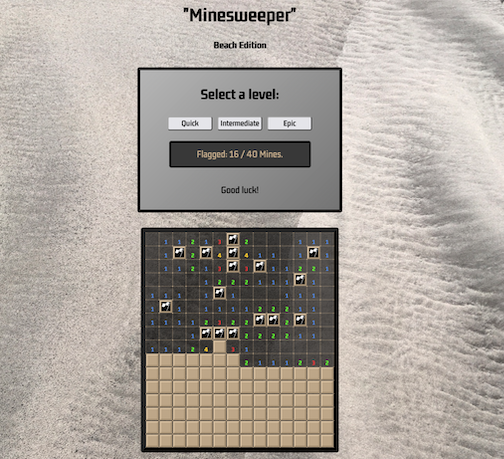
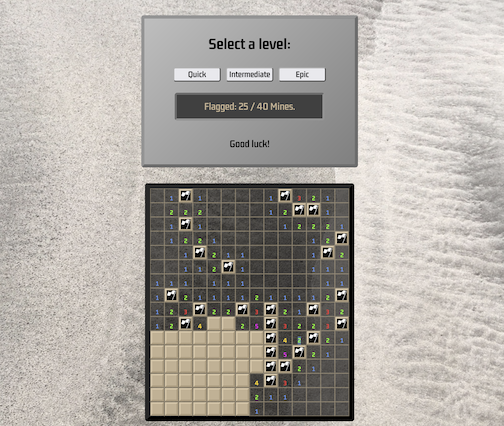
style changes, readme update. Very close to, if not the last commit

diff --git a/style.css b/style.css
@@ -18,8 +18,6 @@ body, main {
   flex-direction: column;
   align-items: center;
   /* General attributes */
-  /* font-family: 'Kdam Thmor Pro', sans-serif;
-  text-align: center; */
 }
 
 #interface {
@@ -28,10 +26,10 @@ body, main {
   flex-direction: column;
   align-items: center;
   /* General attributes */
-  border-top: solid 6px rgba(40, 40, 40, 1);
-  border-left: solid 6px rgba(40, 40, 40, 1);
-  border-right: solid 6px rgba(0, 0, 0, 1);
-  border-bottom: solid 6px rgba(0, 0, 0, 1);
+  border-top: solid 6px rgba(148, 148, 148, 1);
+  border-left: solid 6px rgba(148, 148, 148, 1);
+  border-right: solid 6px rgba(108, 108, 108, 1);
+  border-bottom: solid 6px rgba(108, 108, 108, 1);
   border-radius: 5px;
   width: 380px;
   max-width: 450px;
@@ -51,7 +49,6 @@ body, main {
 }
 
 .startBtn {
-  /* Placement attributes */
   width: 90px;
   margin: 5px;
   border-color: black;
@@ -61,10 +58,10 @@ body, main {
 
 #flagStatement {
   background-color: rgba(64, 64, 64, 1);
-  border-top: solid 4px rgba(0, 0, 0, 1);
-  border-left: solid 4px rgba(0, 0, 0, 1);
-  border-right: solid 4px rgba(40, 40, 40, 1);
-  border-bottom: solid 4px rgba(40, 40, 40, 1);
+  border-top: solid 4px rgba(108, 108, 108, 1);
+  border-left: solid 4px rgba(108, 108, 108, 1);
+  border-right: solid 4px rgba(148, 148, 148, 1);
+  border-bottom: solid 4px rgba(148, 148, 148, 1);
   border-radius: 5px;
   padding: 10px;
   color: rgba(195, 176, 145, 1);
@@ -78,8 +75,8 @@ body, main {
   /* Placement attributes */
   display: flex;
   flex-direction: column;
-  /* will need to change the template dynamically, with js? */
-  /* Can also do flex of flex (div rows hold array of spans. */
+  /* would like to eventually change the template dynamically...do we need js? */
+  /* General attributes */
   border-top: solid 10px rgba(40, 40, 40, 1);
   border-left: solid 10px rgba(40, 40, 40, 1);
   border-right: solid 10px rgba(0, 0, 0, 1);
@@ -91,7 +88,6 @@ body, main {
 
 #spaceHolder {
   width: 150px;
-  /* height: 40px; */
 }
 
 .gameRows {
@@ -100,12 +96,9 @@ body, main {
   flex-direction: row;
   justify-content: space-evenly;
   align-items: center;
-  /*For testing*/
-  color: go
 }
 
 .gameCell {
-  /* background-color: rgba(152, 168, 184, 1); */
   margin: 0px;
   width: 25px;
   height: 25px;
@@ -115,7 +108,6 @@ body, main {
 }
 
 .gameBtn {
-  /* display: contents; */
   width: 25px;
   height: 25px;
   background-color: rgba(195, 176, 145, 1);
@@ -134,8 +126,8 @@ body, main {
 }
 
 .cellValue {
-  /* Placement attributes */
   display: none;
+  /* Will be flipped between none/block in js.*/
 }
 
 .bomb {
@@ -157,15 +149,6 @@ body, main {
 /* ============================================== */
 /* Formatting the descriptions section. */
 /* ============================================== */
-
-ul {
-  list-style: disc;
-  padding-left: 0.25in;
-}
-
-li {
-  margin: 5px;
-}
 
 #descriptions {
   width: 85vw;
@@ -193,9 +176,17 @@ li {
   background-color: rgba(22, 22, 22, 0.7);
 }
 
+ul {
+  list-style: disc;
+  padding-left: 0.25in;
+}
+
+li {
+  margin: 5px;
+}
+
 .unl {
   text-decoration: underline;
-  /* color:rgba(64, 130, 109, 1); */
 }
 
 .hidden {
@@ -206,10 +197,6 @@ li {
   width: 90vw;
   max-width: 800px;
   padding: 10px;
-  /* text-align: left; */
-  /* background-color: rgba(184, 168, 152, .7);
-  border: solid 5px rgba(54, 38, 22, .7);
-  border-radius: 5px; */
 }
 
 a:link {

diff --git a/script.js b/script.js
@@ -342,7 +342,7 @@ medBtn.addEventListener('click', () => {
 
 // Epic/Advanced game
 advBtn.addEventListener('click', () => {
-  startGame(30, 16, 99);
+  startGame(16, 30, 99);
 });
 
 //Operates the hide/show button in the 'descriptions' section
